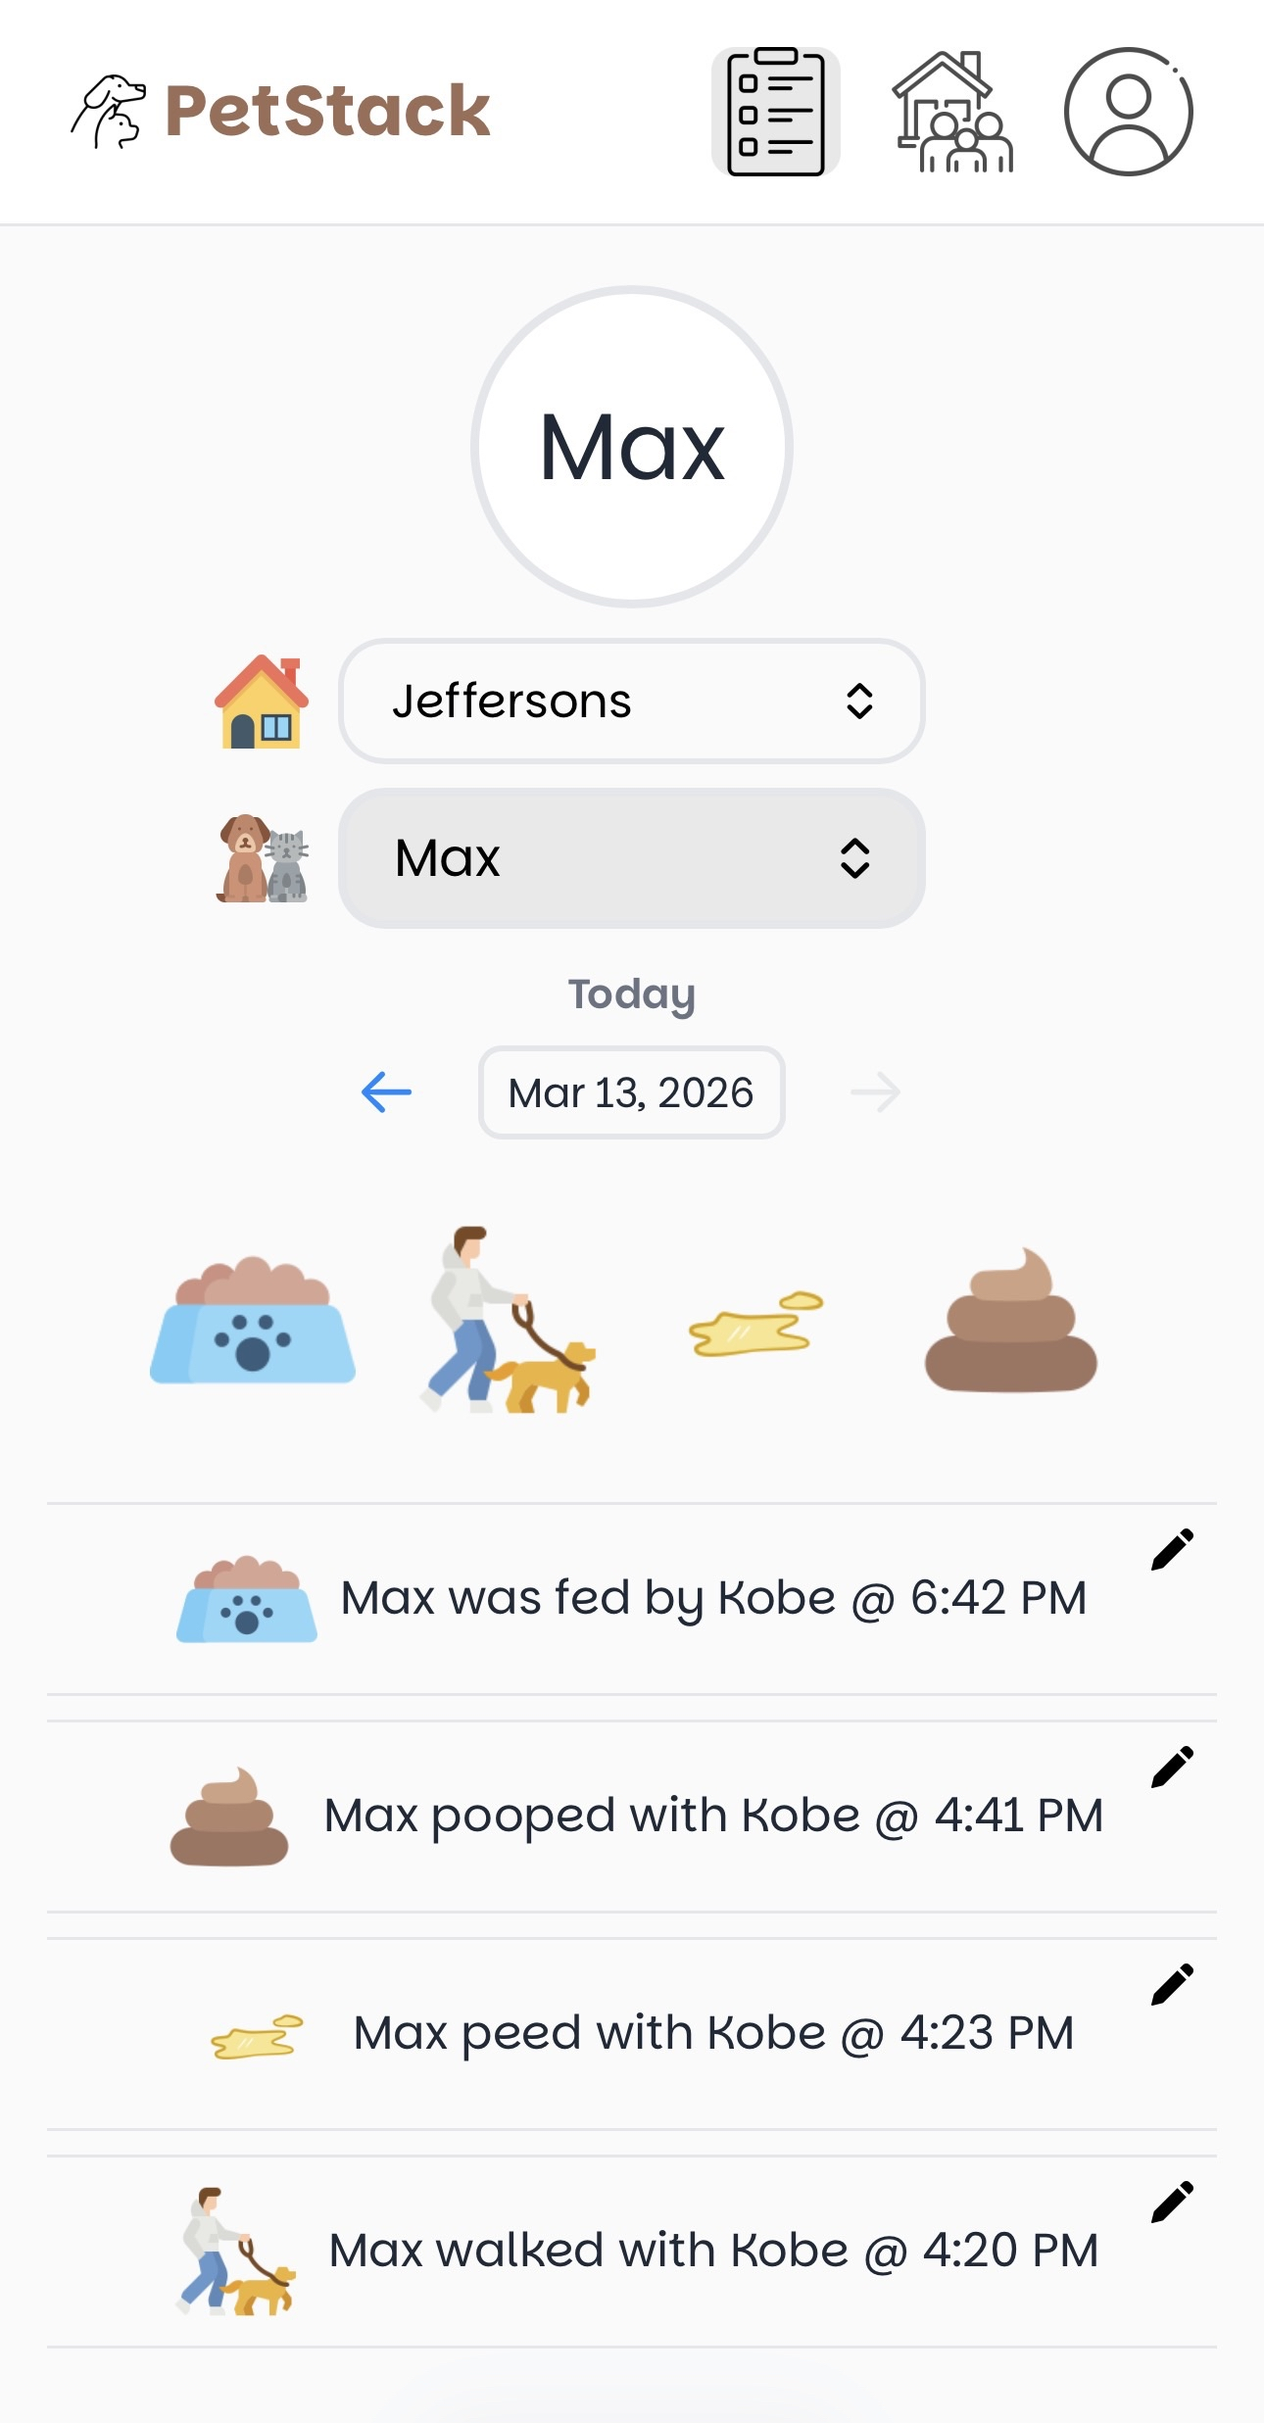
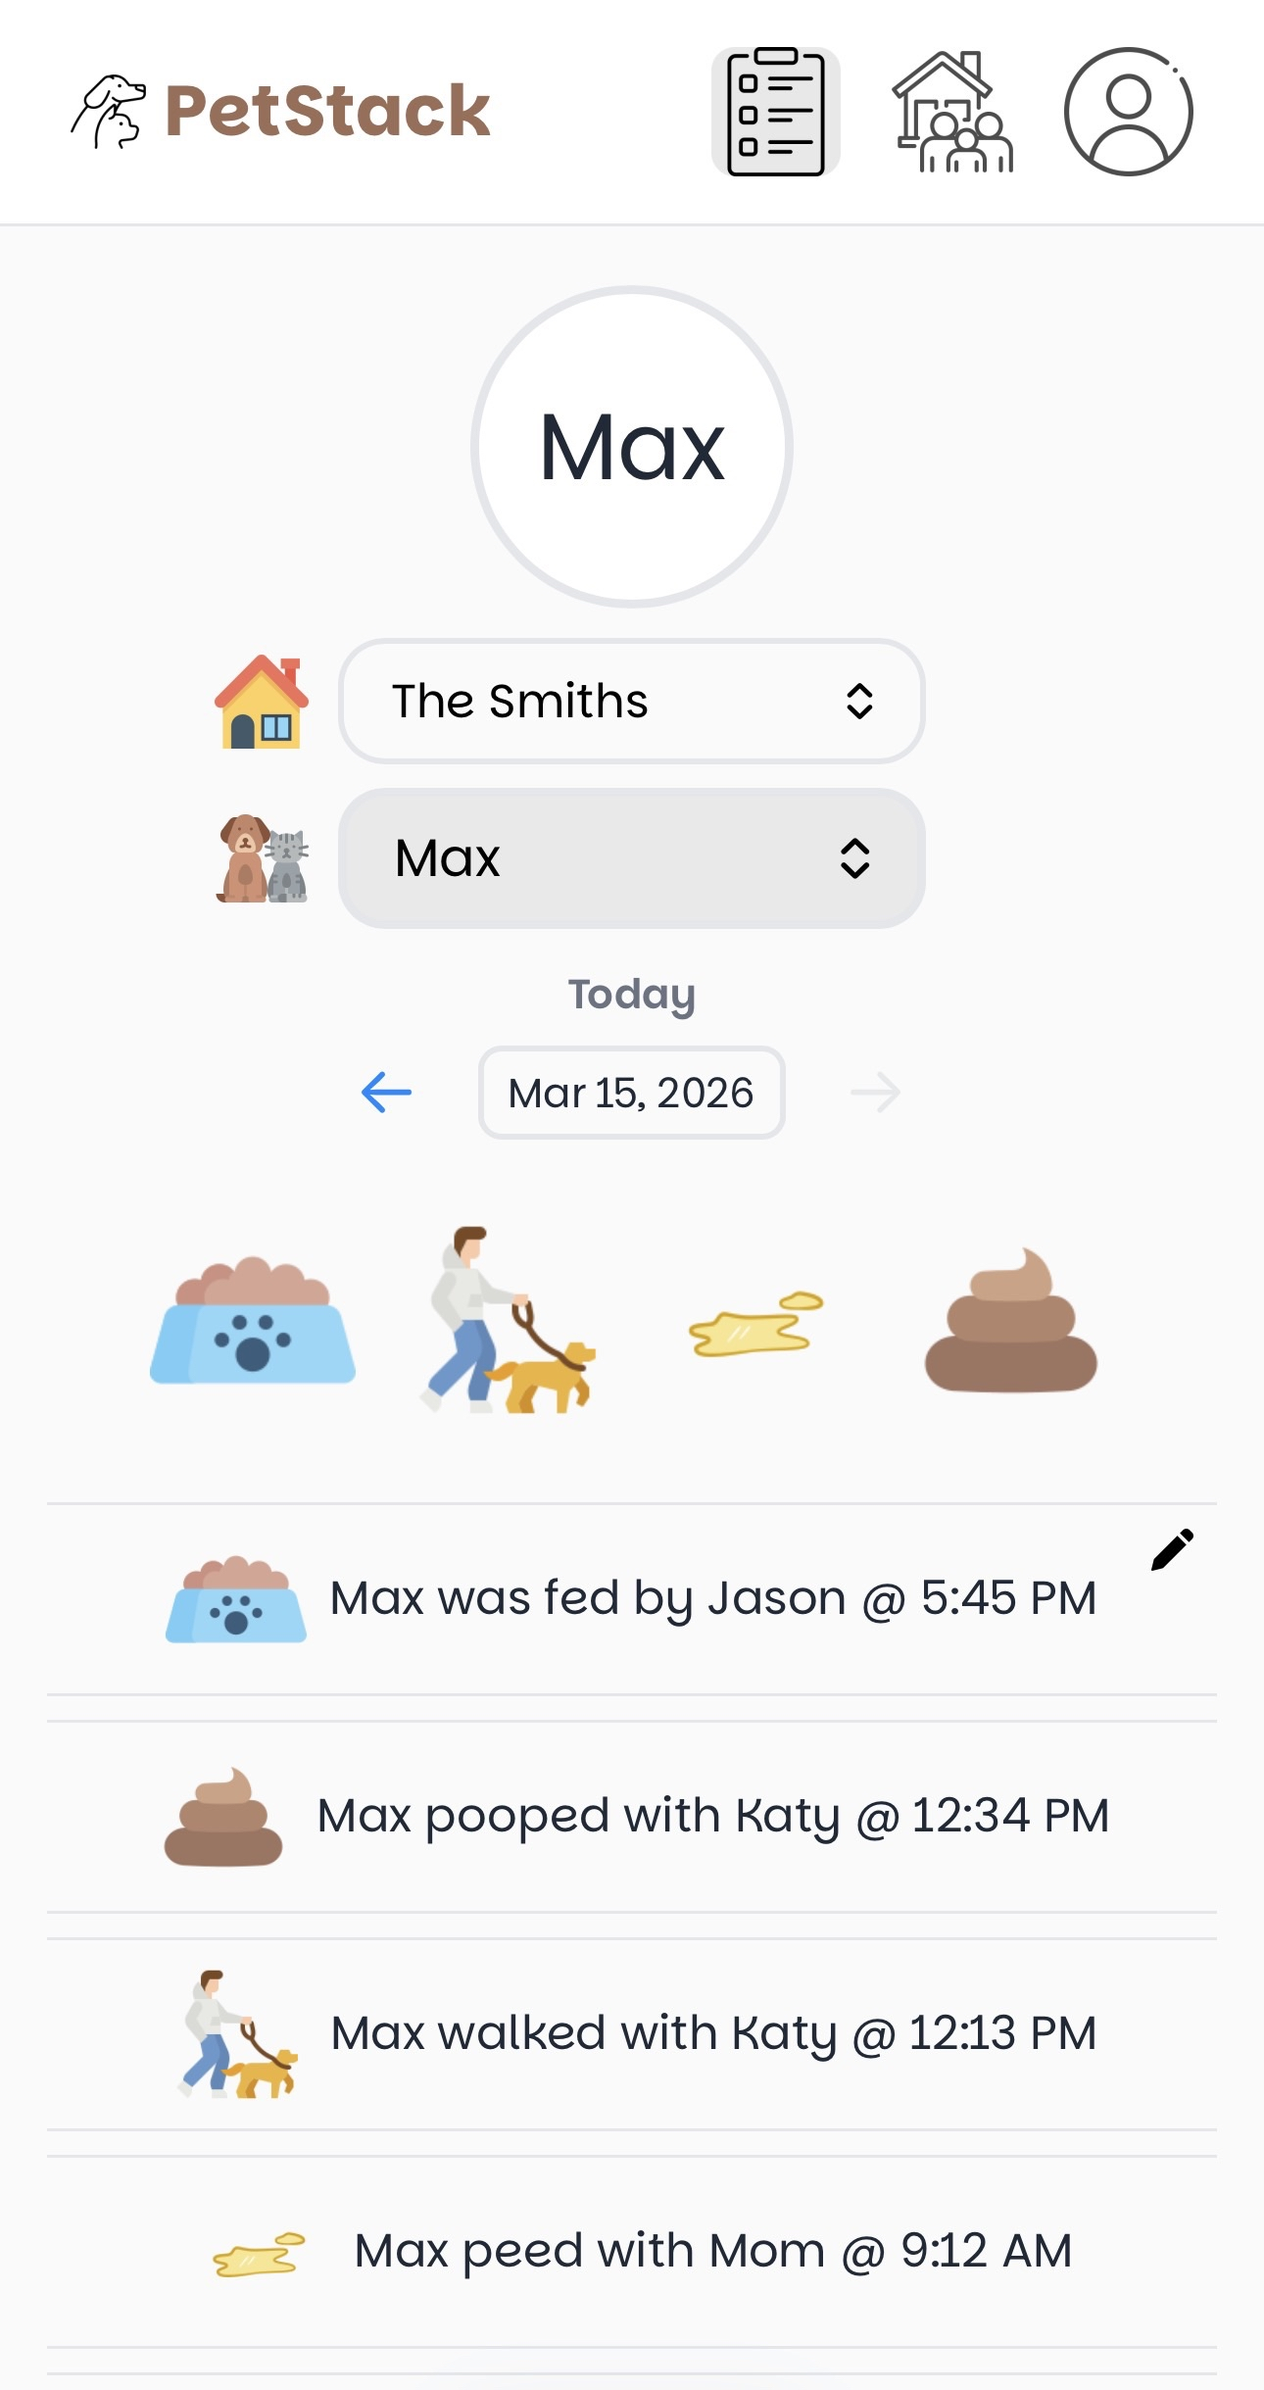
Updated landing page, cleaned up some classes, added some testing

diff --git a/src/main/resources/static/index.html b/src/main/resources/static/index.html
@@ -37,24 +37,39 @@
     </section>
 
     <section id="about" class="about-section">
-        <h2>Why PetStack?</h2>
+        <h2>What is PetStack?</h2>
 
-        <ul class="feature-list">
-            <li class="feature-item">
-                <h3>Track Daily Activities</h3>
-                <p>Log feeding times, walks, bathroom breaks, and more for all your pets.</p>
-            </li>
+        <div class="about-content">
+            <p>If you share responsibility for a pet with family, roommates, or a partner, you know how easy it is to forget who's done what.</p>
+            <p>PetStack is a mobile-focused web application that helps groups keep track of their pet's daily care through a shared, real-time activity log.</p>
+            <p>In a busy household, questions like "Did someone feed the dog?" or "Did anyone take them out before bed?" come up almost every day.</p>
+            <p>PetStack solves that by giving everyone a simple place to log activities and quickly see what's been done — something anyone in the household can pick up and use right away.</p>
+        </div>
 
-            <li class="feature-item">
-                <h3>Household Sharing</h3>
-                <p>Share pet care duties with family members. Everyone stays in sync.</p>
-            </li>
+        <div class="about-screenshot">
+            <img src="images/petstack-dashboard.png" alt="PetStack Dashboard">
+        </div>
 
-            <li class="feature-item">
-                <h3>Activity History</h3>
-                <p>See when your pet was last fed or walked at a glance.</p>
-            </li>
-        </ul>
+        <h2>How do I get started?</h2>
+
+        <div class="about-content">
+            <p>Setup is simple. Create an account, log in, and you'll be prompted to either create a household or join one. A household is a shared space for everyone involved in your pet's care to stay on the same page.</p>
+            <p>Once you've created or joined a household using an invite code, you can add a pet and start logging activities right away.</p>
+        </div>
+
+        <h2>Can I download this from the App Store?</h2>
+
+        <div class="about-content">
+            <p>Not currently! PetStack is a solo-developed project, so starting with a web app was the best way to get it up and running. Since different devices use different programming languages, releasing native apps on app stores would take quite a bit more development time.</p>
+            <p>The good news is that most devices let you add a website to your home screen. If you do that with PetStack, it'll behave almost like a regular app.</p>
+        </div>
+
+        <a href="#" class="back-to-top">
+            <svg viewBox="0 0 24 24" fill="none" stroke="currentColor" stroke-width="2">
+                <path d="M5 15l7-7 7 7"></path>
+            </svg>
+            <span>Back to top</span>
+        </a>
     </section>
 
     <footer class="app-footer">

diff --git a/src/main/resources/static/css/styles.css b/src/main/resources/static/css/styles.css
@@ -267,6 +267,51 @@ a:hover {
     text-align: center;
 }
 
+.about-content {
+    margin-bottom: var(--spacing-lg);
+}
+
+.about-content p {
+    font-size: var(--font-size-base);
+    color: var(--color-text-light);
+    line-height: 1.7;
+    margin-bottom: var(--spacing-sm);
+}
+
+.about-screenshot {
+    margin-bottom: var(--spacing-lg);
+    text-align: center;
+}
+
+.about-screenshot img {
+    max-width: 55%;
+    border-radius: var(--radius-md);
+    box-shadow: var(--shadow-sm);
+}
+
+.back-to-top {
+    display: flex;
+    flex-direction: column;
+    align-items: center;
+    margin-left: auto;
+    margin-right: auto;
+    gap: var(--spacing-xs);
+    margin-top: var(--spacing-lg);
+    color: var(--color-text-light);
+    text-decoration: none;
+    font-size: var(--font-size-sm);
+    transition: color 0.2s ease;
+}
+
+.back-to-top:hover {
+    color: var(--color-primary);
+}
+
+.back-to-top svg {
+    width: 24px;
+    height: 24px;
+}
+
 .feature-list {
     list-style: none;
     display: flex;

diff --git a/src/test/java/com/petstack/petstack/service/AuthServiceTest.java b/src/test/java/com/petstack/petstack/service/AuthServiceTest.java
@@ -1,0 +1,116 @@
+package com.petstack.petstack.service;
+
+import static org.junit.jupiter.api.Assertions.*;
+
+import static org.mockito.Mockito.*;
+
+import java.util.Map;
+import java.util.Optional;
+
+import org.junit.jupiter.api.BeforeEach;
+
+import org.junit.jupiter.api.Test;
+
+import com.petstack.petstack.model.User;
+import com.petstack.petstack.repository.UserRepository;
+
+import org.springframework.security.crypto.password.PasswordEncoder;
+
+
+public class AuthServiceTest {
+
+    private UserRepository userRepository;
+    private UserService userService;
+    private PasswordEncoder passwordEncoder;
+    private JwtService jwtService;
+
+    private AuthService authService;
+
+    @BeforeEach
+    void setUp() {
+        userRepository = mock(UserRepository.class);
+        userService = mock(UserService.class);
+        passwordEncoder = mock(PasswordEncoder.class);
+        jwtService = mock(JwtService.class);
+
+        authService = new AuthService(userRepository, userService, passwordEncoder, jwtService);
+    }    
+
+    @Test
+    void login_withNonExistentEmail_shouldThrowException() {
+        when(userRepository.findByEmail("fake@email.com"))
+            .thenReturn(Optional.empty());
+
+        RuntimeException exception = assertThrows(RuntimeException.class, () -> {
+            authService.login("fake@email.com", "password123");
+        });
+
+        assertEquals("Email not found! Please try again.", exception.getMessage());
+    }
+
+    @Test
+    void login_withCorrectEmailWrongPassword_shouldThrowException() {
+        User fakeUser = new User();
+        fakeUser.setEmail("real@email.com");
+        fakeUser.setPasswordHash("hashedPassword123");
+
+        when(userRepository.findByEmail("real@email.com"))
+            .thenReturn(Optional.of(fakeUser));
+
+        when(passwordEncoder.matches("wrongPassword", "hashedPassword123"))
+            .thenReturn(false);
+
+        RuntimeException exception = assertThrows(RuntimeException.class, () -> {
+            authService.login("real@email.com", "wrongPassword");
+        });
+
+        assertEquals("Incorrect password! Please try again.", exception.getMessage());
+    }
+
+    @Test
+    void login_withCorrectEmailCorrectPassword(){
+        User fakeUser = new User();
+        fakeUser.setEmail("real@email.com");
+        fakeUser.setPasswordHash("hashedPassword123");
+
+        when(userRepository.findByEmail("real@email.com"))
+        .thenReturn(Optional.of(fakeUser));
+
+        when(passwordEncoder.matches("correctPassword", "hashedPassword123"))
+            .thenReturn(true);
+
+        when(jwtService.generateToken(fakeUser))
+            .thenReturn("fake-jwt-token");
+
+        Map<String, Object> result = authService.login("real@email.com", "correctPassword");
+
+        assertEquals("fake-jwt-token", result.get("token"));
+        assertNotNull(result.get("user"));
+    }
+
+    @Test
+    void signUp_withValidDetails_shouldReturnUser() {
+        User fakeUser = new User("new@email.com", "hashedPassword", "NewUser");
+
+        when(userService.createUser("new@email.com", "password123", "NewUser"))
+            .thenReturn(fakeUser);
+
+        User result = authService.signUp("new@email.com", "password123", "NewUser");
+
+        assertEquals(fakeUser, result);
+        assertEquals("new@email.com", result.getEmail());
+        assertEquals("NewUser", result.getDisplayName());
+    }
+
+    @Test
+    void signUp_withExistingEmail_shouldThrowException() {
+        when(userService.createUser("taken@email.com", "password123", "SomeUser"))
+            .thenThrow(new RuntimeException("An account already exists for this email!"));
+
+        RuntimeException exception = assertThrows(RuntimeException.class, () -> {
+            authService.signUp("taken@email.com", "password123", "SomeUser");
+        });
+
+        assertEquals("An account already exists for this email!", exception.getMessage());
+    }
+}

diff --git a/src/main/java/com/petstack/petstack/config/JwtAuthenticationFilter.java b/src/main/java/com/petstack/petstack/config/JwtAuthenticationFilter.java
@@ -26,33 +26,26 @@ public class JwtAuthenticationFilter extends OncePerRequestFilter {
 
     @Override
     protected void doFilterInternal(HttpServletRequest request,
-                                    HttpServletResponse response,
-                                    FilterChain filterChain)
+            HttpServletResponse response,
+            FilterChain filterChain)
             throws ServletException, IOException {
-
-        // Step 1: Get the Authorization header
         String authHeader = request.getHeader("Authorization");
 
-        // Step 2: If there's no header, or it doesn't start with "Bearer ", skip token processing
         if (authHeader == null || !authHeader.startsWith("Bearer ")) {
             filterChain.doFilter(request, response);
             return;
         }
 
-        // Step 3: Extract the token (everything after "Bearer ")
         String token = authHeader.substring(7);
 
-        // Step 4: Validate the token and set up authentication
         if (jwtService.isTokenValid(token)) {
             String email = jwtService.extractEmail(token);
 
-            UsernamePasswordAuthenticationToken authentication =
-                    new UsernamePasswordAuthenticationToken(email, null, List.of());
-
+            UsernamePasswordAuthenticationToken authentication = new UsernamePasswordAuthenticationToken(email, null,
+                    List.of());
             SecurityContextHolder.getContext().setAuthentication(authentication);
         }
 
-        // Step 5: Continue to the next filter / controller
         filterChain.doFilter(request, response);
     }
 }

diff --git a/src/main/java/com/petstack/petstack/controller/UserController.java b/src/main/java/com/petstack/petstack/controller/UserController.java
@@ -7,8 +7,6 @@ import org.springframework.security.core.Authentication;
 import org.springframework.web.bind.annotation.*;
 import org.springframework.web.bind.annotation.GetMapping;
 import org.springframework.web.bind.annotation.RequestParam;
-import org.springframework.web.bind.annotation.PostMapping;
-import org.springframework.web.bind.annotation.RequestBody;
 
 
 
@@ -34,14 +32,11 @@ public class UserController {
         userService.changeDisplayName(newDisplayName, email);
     }
 
-    // Inner class to represent the incoming JSON request
-    // You could also put this in a separate "dto" package
     public static class CreateUserRequest {
         private String email;
         private String password;
         private String displayName;
 
-        // Getters and setters (required for JSON deserialization)
         public String getEmail() { return email; }
         public void setEmail(String email) { this.email = email; }
 

diff --git a/src/main/java/com/petstack/petstack/dto/response/PetResponse.java b/src/main/java/com/petstack/petstack/dto/response/PetResponse.java
@@ -3,7 +3,6 @@ package com.petstack.petstack.dto.response;
 import java.time.LocalDate;
 
 import com.petstack.petstack.model.Pet;
-import com.petstack.petstack.model.User;
 
 public class PetResponse {
     private Integer petId;
@@ -11,9 +10,7 @@ public class PetResponse {
     private LocalDate petBirthdate;
     private String petSpecies;
     private String petGender;
-    // NOT including owners or activities - breaks the cycle!
 
-    // Constructor takes PET, not User
     public PetResponse(Pet pet) {
         this.petId = pet.getPetId();
         this.petName = pet.getPetName();
@@ -22,7 +19,6 @@ public class PetResponse {
         this.petGender = pet.getPetGender();
     }
 
-    // Getters
     public Integer getPetId() { return petId; }
     public String getPetName() { return petName; }
     public LocalDate getPetBirthdate() { return petBirthdate; }

diff --git a/src/main/java/com/petstack/petstack/controller/PetController.java b/src/main/java/com/petstack/petstack/controller/PetController.java
@@ -23,13 +23,11 @@ public class PetController {
         return new PetResponse(petService.createPet(request.getPetName(), request.getHouseholdId(), request.getPetSpecies()));
     }
     
-    // Inner class to represent the incoming JSON request
     public static class CreatePetRequest {
         private String petName;
         private Integer householdId;
         private String petSpecies;
 
-        // Getters and setters (required for JSON deserialization)
         public String getPetName() { return petName; }
         public void setPetName(String petName) { this.petName = petName; }
         public Integer getHouseholdId() { return householdId; }

diff --git a/src/main/java/com/petstack/petstack/dto/response/HouseholdMemberResponse.java b/src/main/java/com/petstack/petstack/dto/response/HouseholdMemberResponse.java
@@ -11,7 +11,6 @@ public class HouseholdMemberResponse {
     private String userRole;
     private LocalDateTime createdAt;
 
-    // Constructor that converts HouseholdMember entity to response DTO
     public HouseholdMemberResponse(HouseholdMember member) {
         this.userId = member.getUser().getUserId();
         this.displayName = member.getUser().getDisplayName();
@@ -20,7 +19,6 @@ public class HouseholdMemberResponse {
         this.createdAt = member.getCreatedAt();
     }
 
-    // Getters (required for JSON serialization)
     public Integer getUserId() {
         return userId;
     }

diff --git a/src/main/java/com/petstack/petstack/dto/response/UserResponse.java b/src/main/java/com/petstack/petstack/dto/response/UserResponse.java
@@ -12,7 +12,6 @@ public class UserResponse {
     private String profilePicture;
     private List<HouseholdInfo> households;
 
-    // Constructor that converts Entity → DTO
     public UserResponse(User user) {
         this.userId = user.getUserId();
         this.email = user.getEmail();
@@ -28,7 +27,6 @@ public class UserResponse {
             )).toList();        
     }
 
-    // Getters (Jackson needs these to serialize to JSON)
     public Integer getUserId() { return userId; }
     public String getEmail() { return email; }
     public String getDisplayName() { return displayName; }

diff --git a/src/main/java/com/petstack/petstack/controller/ActivityController.java b/src/main/java/com/petstack/petstack/controller/ActivityController.java
@@ -61,9 +61,6 @@ public class ActivityController {
         Activity activity = activityService.updateActivityType(activityId, email, request.getNewType());
         return new ActivityResponse(activity, email);
     }
-
-    // Inner class to represent the incoming JSON request
-    // You could also put this in a separate "dto" package
     public static class CreateActivityRequest {
         private Integer petId;
         private ActivityType activityType;

diff --git a/src/main/java/com/petstack/petstack/service/HouseholdMemberService.java b/src/main/java/com/petstack/petstack/service/HouseholdMemberService.java
@@ -51,10 +51,8 @@ public class HouseholdMemberService {
     }
 
     /*
-    
     IMPLEMENT THIS IN CONTROLLER, AND FRONTNEND EVENTUALLY. THIS IS MEANT FOR WHEN A USER LEAVES A HOUSEHOLD, MEANING THEY ARE
     NO LONGER A HOUSEHOLD MEMBER
-
     */
 
     public void removeHouseholdMember(String email, Integer householdId){

diff --git a/src/main/java/com/petstack/petstack/repository/UserRepository.java b/src/main/java/com/petstack/petstack/repository/UserRepository.java
@@ -6,7 +6,7 @@ import org.springframework.stereotype.Repository;
 
 import java.util.Optional;
 
-@Repository  // Marks this as a Spring-managed repository component
+@Repository  
 public interface UserRepository extends JpaRepository<User, Integer> {
 
     Optional<User> findByEmail(String email);
